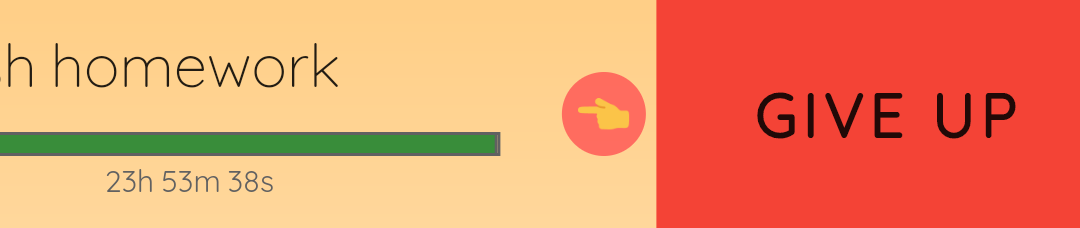
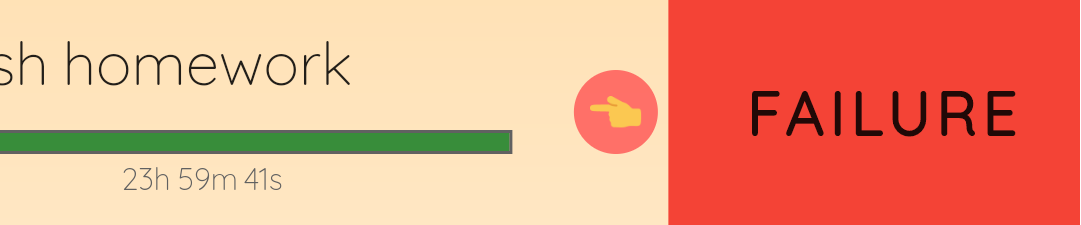
Fixing minor bugs and building for release 1

diff --git a/lib/utils/helpers/admob_tools.dart b/lib/utils/helpers/admob_tools.dart
@@ -4,19 +4,19 @@ import 'dart:io' show Platform;
 class AdmobTools {
   
   static final MobileAdTargetingInfo targetingInfo = new MobileAdTargetingInfo(
-    testDevices: <String>["0CE549AB8EA6F868428D24D8E3615732"],
-    keywords: <String>['productivity', 'lifestyle', 'tasks', 'todo-lists', 'self improvement', 'goals',],
+    testDevices: <String>[],
+    keywords: <String>['productivity', 'lifestyle', 'tasks', 'todo-lists', 'self improvement', 'goals', 'exercise', 'fitness', 'health'],
   );
 
-  static final String appId = FirebaseAdMob.testAppId;
-  // Platform.isAndroid
-  //     ? 'ca-app-pub-3787115292798141~9637684042'
-  //     : 'ca-app-pub-3787115292798141~4567414097';
+  static final String appId = 
+  Platform.isAndroid
+      ? 'ca-app-pub-3787115292798141~9637684042'
+      : 'ca-app-pub-3787115292798141~4567414097';
 
-  static final String adUnitId = BannerAd.testAdUnitId;
-  //  Platform.isAndroid
-  //     ? 'ca-app-pub-3787115292798141/5912285356'
-  //     : 'ca-app-pub-3787115292798141/6618862362';
+  static final String adUnitId = 
+   Platform.isAndroid
+      ? 'ca-app-pub-3787115292798141/5912285356'
+      : 'ca-app-pub-3787115292798141/6618862362';
 
 
 

diff --git a/lib/utils/messages/lang.dart b/lib/utils/messages/lang.dart
@@ -19,12 +19,4 @@ class Lang {
 
 }
 
-// cd "C:\Program Files\Oracle\VirtualBox\"
-// VBoxManage.exe modifyvm "macOS 10.13 High Sierra" --cpuidset 00000001 000106e5 00100800 0098e3fd bfebfbff
-// VBoxManage setextradata "macOS 10.13 High Sierra" "VBoxInternal/Devices/efi/0/Config/DmiSystemProduct" "iMac11,3"
-// VBoxManage setextradata "macOS 10.13 High Sierra" "VBoxInternal/Devices/efi/0/Config/DmiSystemVersion" "1.0"
-// VBoxManage setextradata "macOS 10.13 High Sierra" "VBoxInternal/Devices/efi/0/Config/DmiBoardProduct" "Iloveapple"
-// VBoxManage setextradata "macOS 10.13 High Sierra" "VBoxInternal/Devices/smc/0/Config/DeviceKey" "ourhardworkbythesewordsguardedpleasedontsteal(c)AppleComputerInc"
-// VBoxManage setextradata "macOS 10.13 High Sierra" "VBoxInternal/Devices/smc/0/Config/GetKeyFromRealSMC" 1
-// VBoxManage setextradata "macOS 10.13 High Sierra" VBoxInternal2/EfiGraphicsResolution 1920×1080
 

diff --git a/lib/pages/emoji_selector_page.dart b/lib/pages/emoji_selector_page.dart
@@ -51,9 +51,11 @@ class EmojiSelectorPageState extends State<EmojiSelectorPage> {
   @override
   Widget build(BuildContext context) {
     return Scaffold(
-      body: loading ? LoadingScreen() : Container(
-        padding: EdgeInsets.only(top: 20.0),
-        child: buildGrids(),
+      body: loading ? LoadingScreen() : fadedBackground(
+        child: Container(
+          padding: EdgeInsets.only(top: 20.0),
+          child: buildGrids(),
+        ),
       ),
     );
   }
@@ -187,7 +189,7 @@ class EmojiSelectorPageState extends State<EmojiSelectorPage> {
       padding: EdgeInsets.only(left: 10.0, bottom: 10.0),
       child: Text(
         text,
-        style: TextStyle(fontSize: 18.0, color: Colors.orange[800]),
+        style: TextStyle(fontSize: 18.0, color: Colors.orange[800], fontWeight: FontWeight.bold),
         textAlign: TextAlign.start,
       ),
     );

diff --git a/lib/services/database.dart b/lib/services/database.dart
@@ -223,7 +223,7 @@ class DBHelper{
 
     String dateRange = TimeFunctions.nowToNearestSecond().subtract(Duration(days: 1)).toIso8601String();
 
-    List<Map> list = await dbClient.rawQuery('SELECT * FROM todo, task WHERE task.task_id = todo.task_fid AND (forfeit = "true" OR success = "true" OR datetime(start_date) < datetime("'+dateRange+'")) ORDER BY datetime(completion_date) DESC');
+    List<Map> list = await dbClient.rawQuery('SELECT * FROM todo, task WHERE task.deleted="false" AND task.task_id = todo.task_fid AND (forfeit = "true" OR success = "true" OR datetime(start_date) < datetime("'+dateRange+'")) ORDER BY datetime(completion_date) DESC');
     List<ToDo> todos = new List();
     for (int i = 0; i < list.length; i++) {
       todos.add(new ToDo.fromJson(list[i]));

diff --git a/lib/services/notifications.dart b/lib/services/notifications.dart
@@ -47,8 +47,8 @@ class NotificationService {
       todo.startDate.add(new Duration(days: 1)).subtract(new Duration(hours: delayInHours));
 
     if(scheduledNotificationDateTime.isAfter(DateTime.now())){
-      String header = todo.task.name+'!';
-      String message = 'Only '+ delayInHours.toString()+(delayInHours == 1 ? ' hour' : ' hours')+' left till deadline. Don\'t forget!';
+      String header = 'Don\'t forget to '+todo.task.name+'!';
+      String message = 'Only '+ delayInHours.toString()+(delayInHours == 1 ? ' hour' : ' hours')+' left till the deadline. Don\'t give up!';
       await _flutterLocalNotificationsPlugin.schedule(
           todo.id,
           header,

diff --git a/lib/pages/home_page.dart b/lib/pages/home_page.dart
@@ -50,7 +50,7 @@ class _HomePageState extends State<HomePage> {
     return Scaffold(
       body: Container(
         padding: EdgeInsets.only(top: 35.0),
-        color: Colors.orange[200],
+        color: Colors.orange[100],
         child: Column(
           crossAxisAlignment: CrossAxisAlignment.start,
           children: <Widget>[

diff --git a/lib/utils/views/faded_background.dart b/lib/utils/views/faded_background.dart
@@ -4,7 +4,7 @@ import 'package:flutter/material.dart';
 Widget fadedBackground({Widget child}) {
 
   final Color _topColor = Colors.white;
-  final Color _bottomColor = Colors.orange[200]; 
+  final Color _bottomColor = Colors.orange[100]; 
   
   return Container(
     decoration: BoxDecoration(
